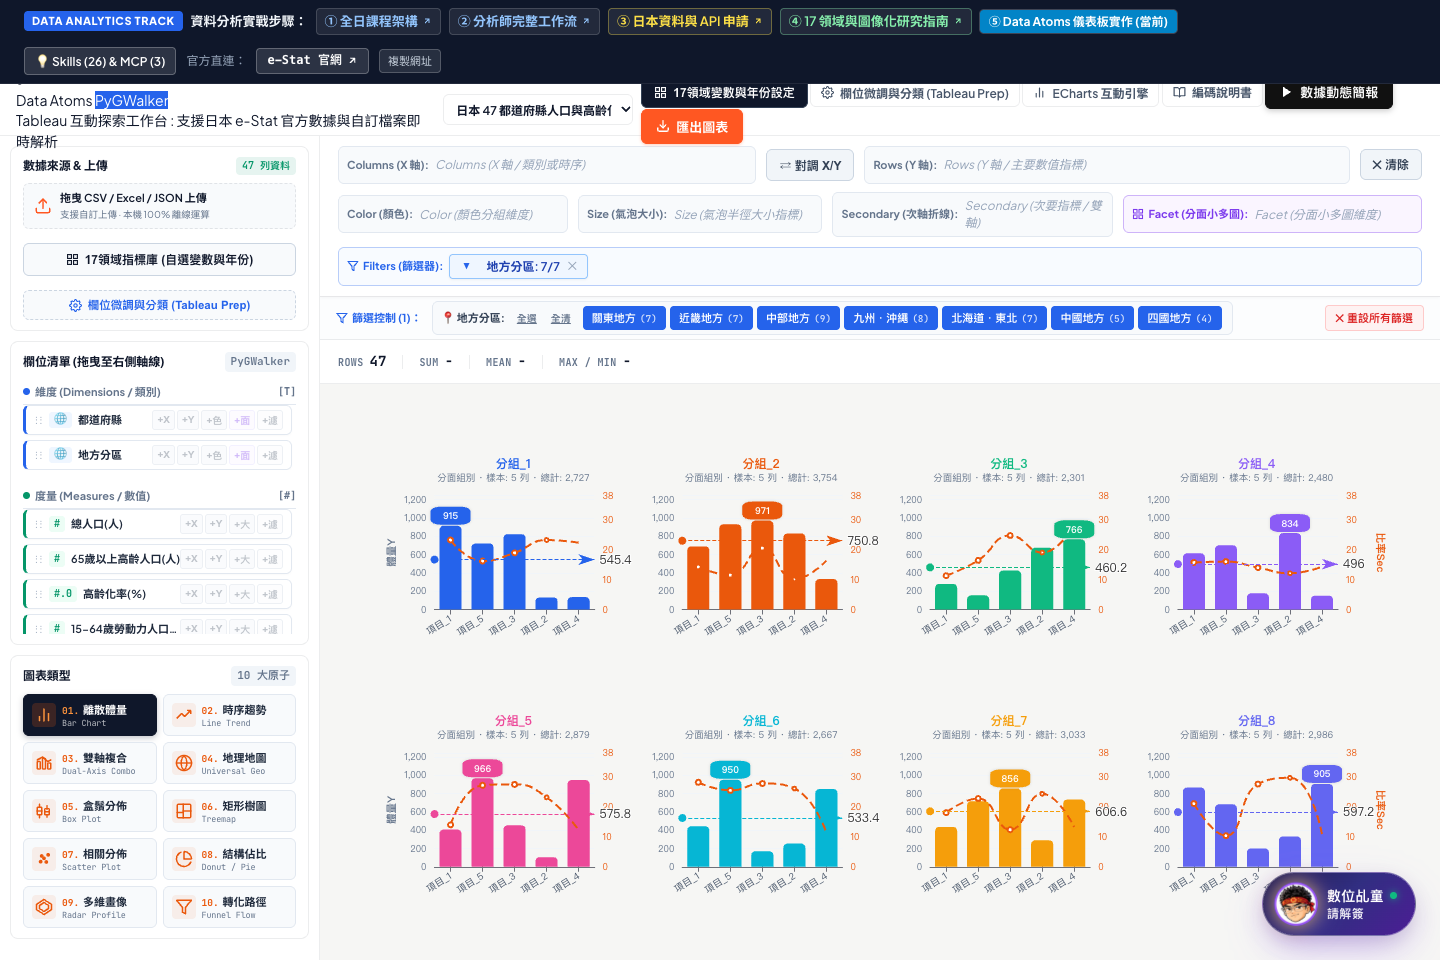
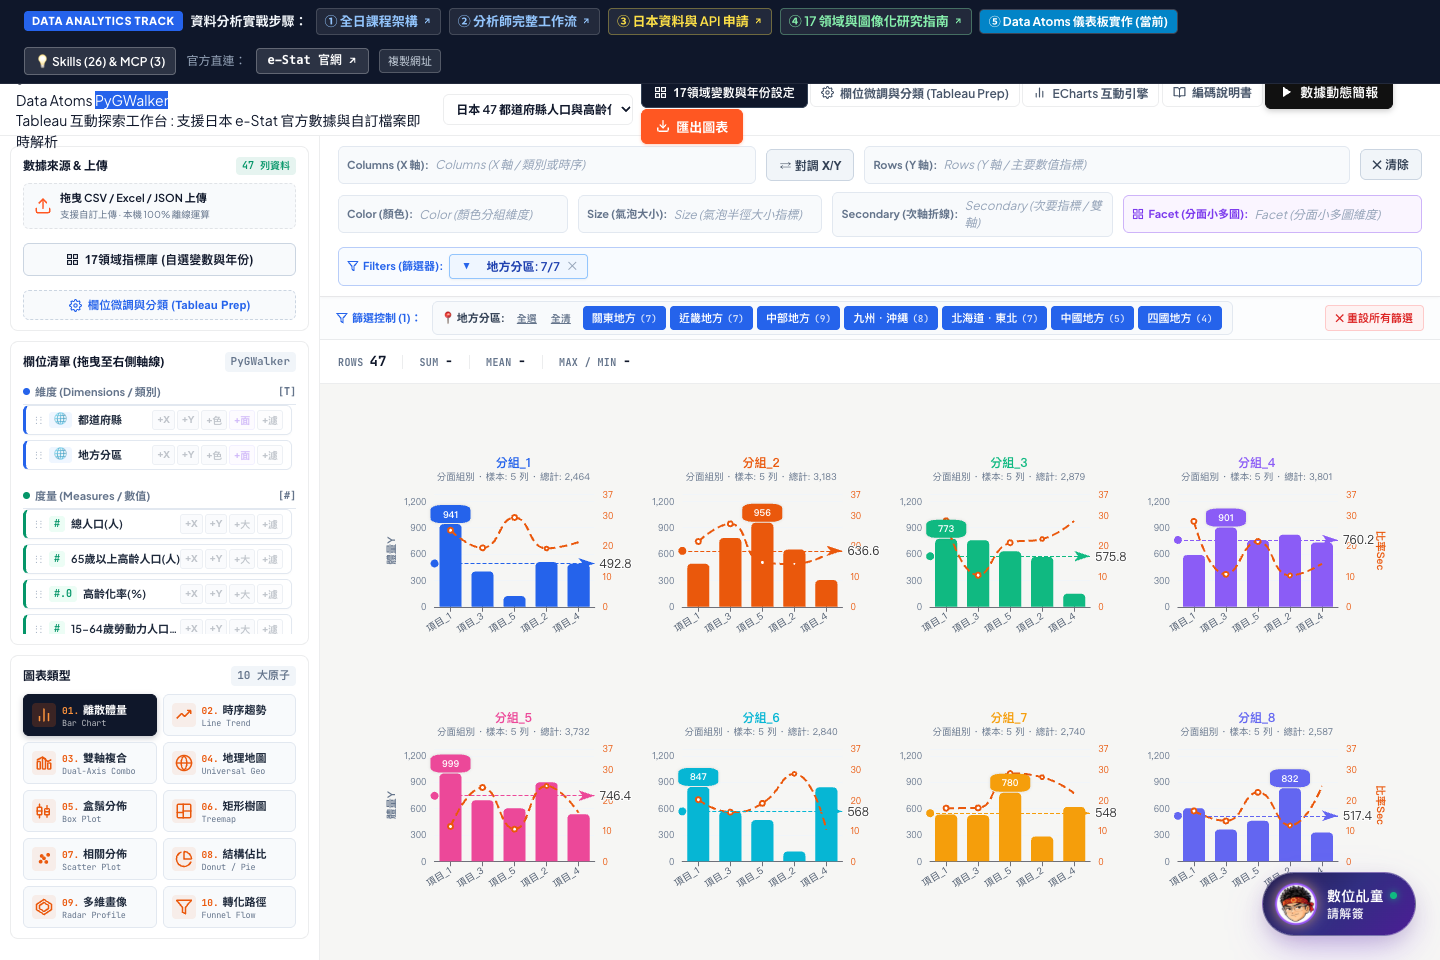
fix(data-atoms): fix facet viewport regression, aggregation null handling, swapped axes, and search-aware export

diff --git a/js/pygwalker_data_atoms.js b/js/pygwalker_data_atoms.js
@@ -132,10 +132,10 @@
     if (!aggType || aggType === 'RAW' || !rows || rows.length === 0) {
       return rows;
     }
-    const validGroupKeys = (groupKeys || []).filter(k => k && typeof k === 'string');
+    const validGroupKeys = [...new Set((groupKeys || []).filter(k => k && typeof k === 'string'))];
     if (validGroupKeys.length === 0) return rows;
 
-    const validMeasures = (measureKeys || []).filter(m => m && typeof m === 'string');
+    const validMeasures = [...new Set((measureKeys || []).filter(m => m && typeof m === 'string'))];
 
     const groups = new Map();
     for (let i = 0; i < rows.length; i++) {
@@ -163,12 +163,15 @@
       }
       entry.count++;
       validMeasures.forEach(m => {
-        const val = safeParseNumber(r[m]);
-        if (!isNaN(val)) {
-          entry.sum[m] += val;
-          if (val < entry.min[m]) entry.min[m] = val;
-          if (val > entry.max[m]) entry.max[m] = val;
-          entry.values[m].push(val);
+        const rawVal = r[m];
+        if (rawVal !== null && rawVal !== undefined && String(rawVal).trim() !== '') {
+          const val = safeParseNumber(rawVal);
+          if (!isNaN(val)) {
+            entry.sum[m] += val;
+            if (val < entry.min[m]) entry.min[m] = val;
+            if (val > entry.max[m]) entry.max[m] = val;
+            entry.values[m].push(val);
+          }
         }
       });
     }
@@ -193,6 +196,9 @@
           row[m] = parseFloat(row[m].toFixed(2));
         }
       });
+      if (aggType === 'COUNT' && validMeasures.length === 0) {
+        row['計數'] = entry.count;
+      }
       aggregated.push(row);
     });
 
@@ -204,8 +210,20 @@
     if (!state.shelf.agg || state.shelf.agg === 'RAW' || raw.length === 0) {
       return raw;
     }
-    const groupKeys = [state.shelf.x, state.shelf.color, state.shelf.facet].filter(Boolean);
-    const measureKeys = [state.shelf.y, state.shelf.secondary, state.shelf.size, ...(state.shelf.yMulti || [])].filter(Boolean);
+    // 散點圖在無維度分組時保留原始數據點
+    if (state.chartType === 'scatter' && !state.shelf.color && !state.shelf.facet) {
+      return raw;
+    }
+    // 判斷是否為對調長條圖 (X 軸為度量，Y 軸為維度)
+    const isSwapped = state.chartType === 'bar' && state.measures.includes(state.shelf.x) && !state.measures.includes(state.shelf.y);
+    let groupKeys, measureKeys;
+    if (isSwapped) {
+      groupKeys = [state.shelf.y, state.shelf.color, state.shelf.facet].filter(Boolean);
+      measureKeys = [state.shelf.x, state.shelf.secondary, state.shelf.size, ...(state.shelf.yMulti || [])].filter(Boolean);
+    } else {
+      groupKeys = [state.shelf.x, state.shelf.color, state.shelf.facet].filter(Boolean);
+      measureKeys = [state.shelf.y, state.shelf.secondary, state.shelf.size, ...(state.shelf.yMulti || [])].filter(Boolean);
+    }
     return aggregateRows(raw, groupKeys, measureKeys, state.shelf.agg);
   }
 
@@ -1125,6 +1143,9 @@
             // 若從另一個視覺槽位拖曳過來，先清空原槽位，達成搬移效果
             if (info.fromShelf && info.fromShelf !== key && info.fromShelf !== 'filters') {
               state.shelf[info.fromShelf] = '';
+              if (info.fromShelf === 'y') {
+                state.shelf.yMulti = [];
+              }
             }
             setShelfField(key, info.field);
           }
@@ -1289,7 +1310,7 @@
     // 視圖自適應高度計算：確保多列 (2~3列) 小多圖具備充裕縱向空間，徹底杜絕上下標籤與刻度互相擠壓
     const container = document.getElementById('echartsViewport');
     if (container) {
-      const neededHeight = numRows === 1 ? '100%' : (numRows === 2 ? '680px' : `${Math.max(920, numRows * 310)}px`);
+      const neededHeight = numRows === 1 ? '100%' : (numRows === 2 ? '680px' : (numRows === 3 ? '920px' : `${Math.max(920, numRows * 300)}px`));
       if (container.style.height !== neededHeight) {
         container.style.height = neededHeight;
         container.style.minHeight = neededHeight;
@@ -1901,19 +1922,11 @@
           const isSubPartition = data.length > xCategories.length;
           colorCategories.forEach((cat, catIdx) => {
             const color = REGION_COLORS[cat] || PALETTE[catIdx % PALETTE.length];
-            let catVals;
-            if (isSubPartition) {
-              const rowMap = new Map();
-              data.filter(d => String(d[colorField]) === cat).forEach(d => {
-                rowMap.set(String(d[xField]), safeParseNumber(d[yField]));
-              });
-              catVals = xCategories.map(x => rowMap.has(x) ? rowMap.get(x) : 0);
-            } else {
-              catVals = xCategories.map(x => {
-                const row = data.find(d => String(d[xField]) === x);
-                return (row && String(row[colorField]) === cat) ? safeParseNumber(row[yField]) : '-';
-              });
-            }
+            const rowMap = new Map();
+            data.filter(d => String(d[colorField]) === cat).forEach(d => {
+              rowMap.set(String(d[xField]), safeParseNumber(d[yField]));
+            });
+            const catVals = xCategories.map(x => rowMap.has(x) ? rowMap.get(x) : '-');
 
             seriesList.push({
               name: cat,
@@ -1975,7 +1988,11 @@
             type: 'value',
             name: secField,
             position: 'right',
-            axisLabel: { formatter: '{value}' }
+            nameLocation: 'middle',
+            nameRotate: -90,
+            nameGap: 42,
+            nameTextStyle: { color: '#ea580c', fontSize: 11, fontWeight: 600 },
+            axisLabel: { formatter: (v) => formatCompactNumber(v) }
           });
           seriesList.push({
             name: secField,
@@ -2100,7 +2117,12 @@
         option.yAxis.push({
           type: 'value',
           name: secField,
-          position: 'right'
+          position: 'right',
+          nameLocation: 'middle',
+          nameRotate: -90,
+          nameGap: 42,
+          nameTextStyle: { color: '#ea580c', fontSize: 11, fontWeight: 600 },
+          axisLabel: { formatter: (v) => formatCompactNumber(v) }
         });
         seriesList.push({
           name: secField,
@@ -2265,6 +2287,18 @@
 
       if (minVal === Infinity) { minVal = 0; maxVal = 100; }
       if (minVal === maxVal) maxVal = minVal + 1;
+      if (minLng === Infinity || maxLng === -Infinity) {
+        minLng = 128; maxLng = 145; minLat = 30; maxLat = 45;
+      }
+
+      if (geoPoints.length === 0) {
+        option.title = {
+          text: '未偵測到相應地理空間坐標，請於 X 軸指派都道府縣、城市、或包含經緯度的欄位',
+          left: 'center',
+          top: 'middle',
+          textStyle: { color: '#94a3b8', fontSize: 14 }
+        };
+      }
 
       // 坐標邊界 padding
       const padLng = Math.max(1.0, (maxLng - minLng) * 0.12);
@@ -3016,7 +3050,7 @@
     } else if (state.chartType === 'geo') {
       // 通用地理投影地圖
       const geoData = (window.UniversalGeoEngine ? window.UniversalGeoEngine.buildGeoSeriesData(
-        getActiveRows(),
+        getVisualData(),
         state.shelf.x,
         state.shelf.y,
         state.shelf.size,
@@ -3372,6 +3406,7 @@
         const temp = state.shelf.x;
         state.shelf.x = state.shelf.y;
         state.shelf.y = temp;
+        state.shelf.yMulti = [];
         renderShelves();
         renderVisualization();
         renderKPIRibbon();
@@ -3957,17 +3992,23 @@
     return rows;
   }
 
-  // --- 匯出 CSV (以 getActiveRows() 當前有效篩選列為準) ---
+  // --- 匯出 CSV (以 getActiveRows() 結合搜尋之當前有效列為準) ---
   function exportCurrentTableToCSV() {
-    const activeRows = getActiveRows();
-    if (!activeRows || activeRows.length === 0) {
+    let rowsToExport = [...getActiveRows()];
+    if (state.searchQuery && state.searchQuery.trim()) {
+      const q = state.searchQuery.toLowerCase();
+      rowsToExport = rowsToExport.filter(row => {
+        return Object.values(row).some(v => String(v).toLowerCase().includes(q));
+      });
+    }
+    if (!rowsToExport || rowsToExport.length === 0) {
       showToast('⚠ 目前無符合條件之資料可供匯出');
       return;
     }
     const headers = state.columns;
-    const csvLines = [headers.join(',')];
+    const csvLines = [headers.map(h => `"${String(h).replace(/"/g, '""')}"`).join(',')];
 
-    activeRows.forEach(row => {
+    rowsToExport.forEach(row => {
       const line = headers.map(h => {
         let val = row[h];
         if (val === null || val === undefined) val = '';
@@ -3980,7 +4021,7 @@
     const blob = new Blob(['\uFEFF' + csvLines.join('\n')], { type: 'text/csv;charset=utf-8;' });
     const url = URL.createObjectURL(blob);
     downloadDataUrl(url, `${state.currentDatasetId}_export.csv`);
-    showToast(`已匯出 CSV 檔案！共 ${activeRows.length} 筆已篩選資料。`);
+    showToast(`已匯出 CSV 檔案！共 ${rowsToExport.length} 筆已篩選與搜尋資料。`);
   }
 
   function downloadDataUrl(url, filename) {

diff --git a/scripts/test_fixes_puppeteer.js b/scripts/test_fixes_puppeteer.js
@@ -242,6 +242,29 @@ function startStaticServer() {
       state.shelf.agg = 'COUNT';
       const countData = getVisualData();
 
+      // 測試 NULL/缺失值不應被誤判為 0 算入 MEAN 或拉低 MIN
+      const testNullRows = [
+        { cat: 'A', val: 10 },
+        { cat: 'A', val: null },
+        { cat: 'A', val: 20 },
+        { cat: 'A', val: '' }
+      ];
+      const meanNullTest = window.aggregateRows(testNullRows, ['cat'], ['val'], 'MEAN');
+      const minNullTest = window.aggregateRows(testNullRows, ['cat'], ['val'], 'MIN');
+
+      // 測試對調水平長條圖聚合 (X=度量, Y=維度)
+      state.chartType = 'bar';
+      state.shelf.x = '總人口(人)';
+      state.shelf.y = '地方分區';
+      state.shelf.agg = 'SUM';
+      const swappedSumData = getVisualData();
+
+      // 重設為標準直式柱狀圖
+      state.chartType = 'bar';
+      state.shelf.x = '地方分區';
+      state.shelf.y = '總人口(人)';
+      state.shelf.agg = 'RAW';
+
       return {
         yMultiAfterSingle,
         yMultiAfterClear,
@@ -249,7 +272,11 @@ function startStaticServer() {
         sumCount: sumData.length,
         firstSumItem: sumData[0],
         firstMeanItem: meanData[0],
-        firstCountItem: countData[0]
+        firstCountItem: countData[0],
+        meanNullVal: meanNullTest[0]?.val,
+        minNullVal: minNullTest[0]?.val,
+        swappedSumCount: swappedSumData.length,
+        swappedSumField: swappedSumData[0]?.['總人口(人)']
       };
     });
     console.log('多度量清除與 Group-By 聚合測試結果:', aggEngineTest);
@@ -258,6 +285,15 @@ function startStaticServer() {
     }
     if (aggEngineTest.sumCount >= aggEngineTest.rawCount) {
       throw new Error('Group-By SUM 聚合未能彙整維度！SUM 分組數應小於 RAW 數');
+    }
+    if (aggEngineTest.meanNullVal !== 15) {
+      throw new Error(`聚合 MEAN 遇到 NULL/空值計算錯誤！預期 15，實際得 ${aggEngineTest.meanNullVal}`);
+    }
+    if (aggEngineTest.minNullVal !== 10) {
+      throw new Error(`聚合 MIN 遇到 NULL/空值計算錯誤！預期 10，實際得 ${aggEngineTest.minNullVal}`);
+    }
+    if (aggEngineTest.swappedSumCount !== 7 || !aggEngineTest.swappedSumField) {
+      throw new Error(`對調水平長條圖 Group-By 聚合失敗！分組數預期 7，實際 ${aggEngineTest.swappedSumCount}`);
     }
 
     console.log('\n--- 步驟 5: 測試小多圖 3 面板與 12 面板 (0 標籤重疊，0 console 錯誤) ---');
